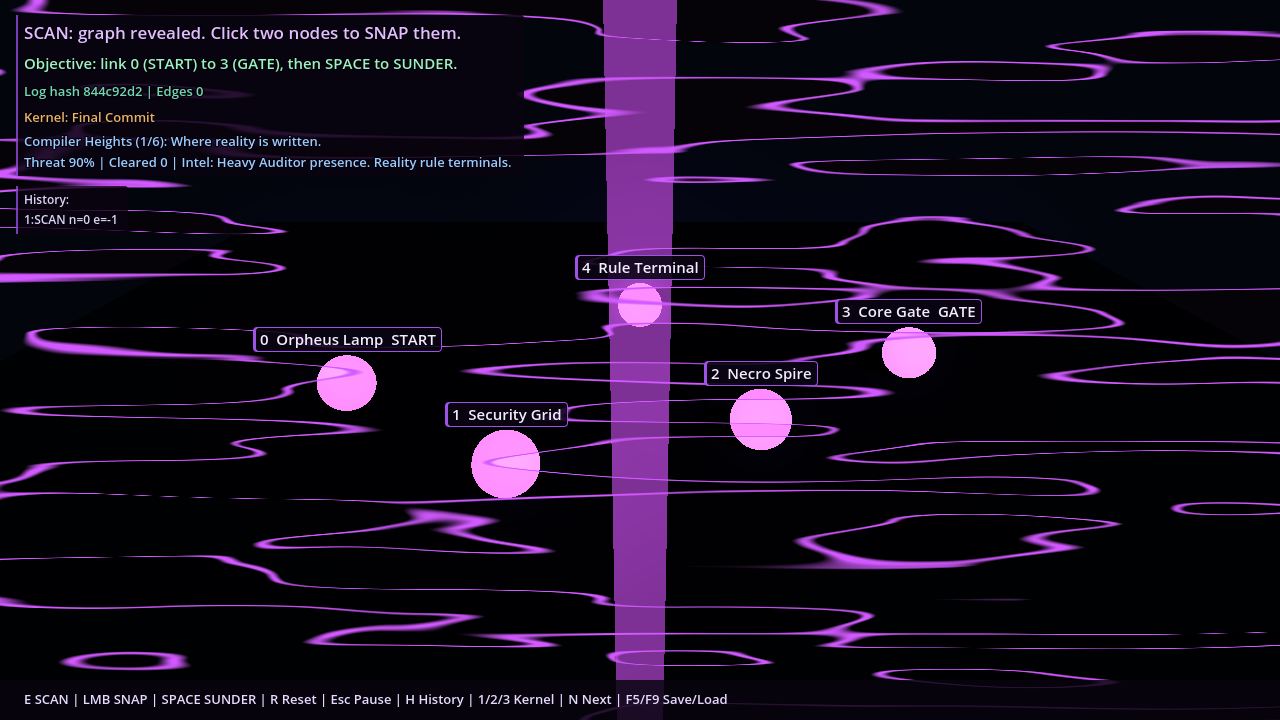
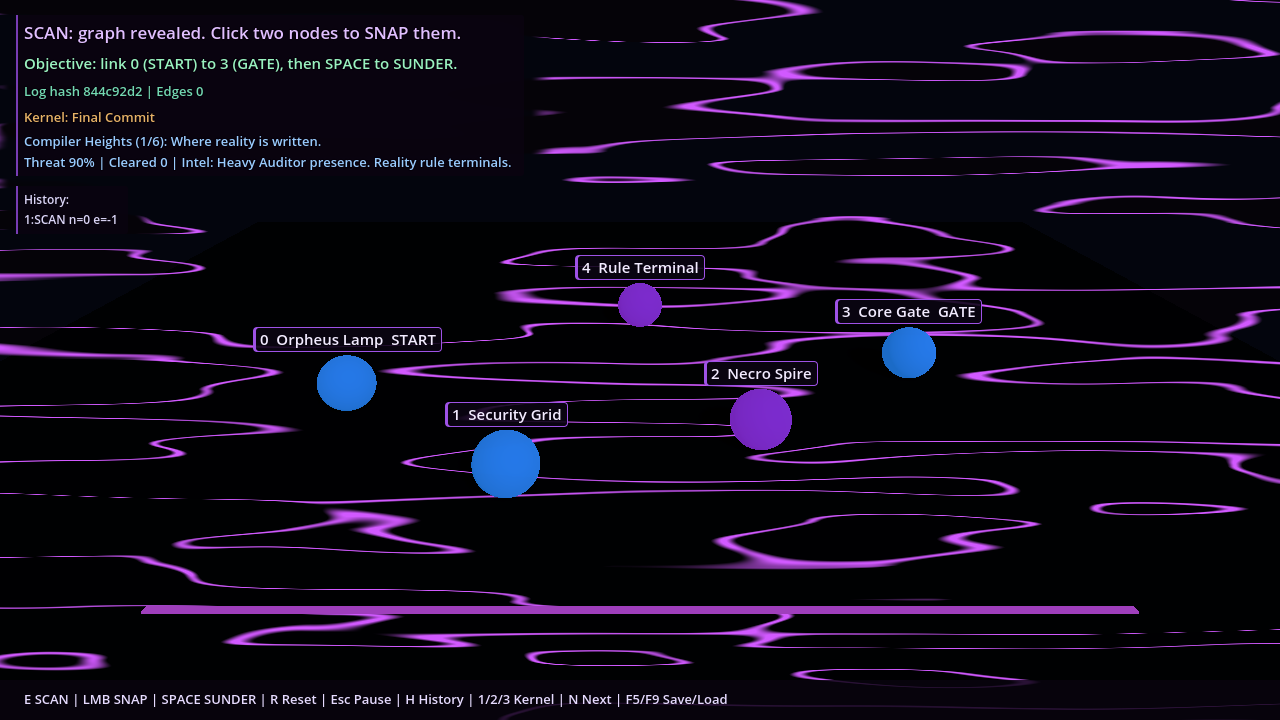
Opaque pause/win panels, streaks off spheres, Resumed status (S1-S3); QA: hand check 6 all six districts
- S1: PAUSED and win panel backing alpha 0.96 -> 1.0; driver asserts both.
- S2: compositor scales its violet streak by 1 - smoothstep(0.1, 0.24, lit
  scene), so streaks draw only over the near-black background, not spheres,
  beams or the floor line. Test-only seam_force uniform; windowed driver
  forces streaks on in districts 1 and 6 and checks every sphere centre
  keeps its colour while the background turns violet (fails with the mask
  disabled).
- S3: Esc resume sets the status to 'Resumed.'; driver expects it.
- Driver 352/352 headless (4 pixel checks skipped), 356/356 GL and Vulkan;
  smoke 28/28; unit 5/5. QA doc: hand check 6, S1-S3, refreshed shots.

diff --git a/docs/QA-COMPLETION.md b/docs/QA-COMPLETION.md
@@ -3,7 +3,7 @@
 **Date:** 2026-10-08 (America/New_York)
 **Branch:** `fix/coldboot-playtest-pass`
 **Scope:** the existing Claim-0 vertical slice (main menu, six districts, SCAN → SNAP → SUNDER, kernels, Auditor lock, Rollback timer, Null Walker, F5/F9 save). No new mechanics.
-**Status:** IN PROGRESS. Every district clears with real input events on the real scenes. Three human mouse-and-keyboard sessions (2026-10-08) found HUD, save/load, readability and kernel-message bugs (H1–H7, P1–P11, Q1–Q7), all fixed or explained below. Q8 (H, F5 and F9 under the PAUSED panel) followed from the driver. The driver now passes 347/347 headless, on Forward+ (Vulkan, software) and on GL compatibility. Hand check 4 (03:45 ET) confirmed the kernel messages and pause gating on screen; its R1–R3 readability findings are fixed and checked by the driver and by screenshots on both renderers. Hand check 5 (~04:12 ET) played district 1 with real mouse and keyboard on the fixed build and confirmed R1–R3 on screen; its one new finding (W1, seam showing through the win panel) is fixed.
+**Status:** IN PROGRESS. Every district clears with real input events on the real scenes. Three human mouse-and-keyboard sessions (2026-10-08) found HUD, save/load, readability and kernel-message bugs (H1–H7, P1–P11, Q1–Q7), all fixed or explained below. Q8 (H, F5 and F9 under the PAUSED panel) followed from the driver. The driver now passes 356/356 windowed on Forward+ (Vulkan, software) and on GL compatibility, and 352/352 headless (the four streak pixel checks need a window and are skipped there). Hand check 4 (03:45 ET) confirmed the kernel messages and pause gating on screen; its R1–R3 readability findings are fixed and checked by the driver and by screenshots on both renderers. Hand check 5 (~04:12 ET) played district 1 with real mouse and keyboard on the fixed build and confirmed R1–R3 on screen; its one new finding (W1, seam showing through the win panel) is fixed. Hand check 6 (~04:30–04:45 ET) cleared all six districts by hand at `1dcb907` with no functional failure; its three polish findings (S1–S3: translucent PAUSED panel, compositor streaks over spheres, no message on resume) are fixed and checked by the driver and by screenshots.
 
 ## How this was run
 
@@ -12,21 +12,21 @@
 # Every run uses its own empty XDG_DATA_HOME, so the F5 save starts clean.
 export XDG_DATA_HOME=$(mktemp -d)
 godot --headless --path godot -s res://tools/smoke_test.gd          # 28/28
-godot --headless --path godot -s res://tools/play_driver.gd         # 337/337
+godot --headless --path godot -s res://tools/play_driver.gd         # 352/352 (4 pixel checks skipped)
 # Windowed under Xvfb (1280x720), with screenshots.
 # Forward+ on Vulkan (Mesa lavapipe, software):
 VK_ICD_FILENAMES=/usr/share/vulkan/icd.d/lvp_icd.json \
 godot --path godot --rendering-method forward_plus --rendering-driver vulkan \
-      --resolution 1280x720 -s res://tools/play_driver.gd -- --shots=/tmp/shots_vk  # 337/337
+      --resolution 1280x720 -s res://tools/play_driver.gd -- --shots=/tmp/shots_vk  # 356/356
 # GL compatibility (Mesa llvmpipe):
 godot --path godot --rendering-method gl_compatibility --rendering-driver opengl3 \
-      --resolution 1280x720 -s res://tools/play_driver.gd -- --shots=/tmp/shots_gl  # 337/337
+      --resolution 1280x720 -s res://tools/play_driver.gd -- --shots=/tmp/shots_gl  # 356/356
 python3 -m unittest discover -s tests                               # 5/5
 ```
 
 The headless run prints `Parameter "m" is null` from the dummy renderer's `mesh_get_surface_count`. It was already there at `fe5faf4` (783 lines on 211 checks) and grows with the number of redraws. Neither windowed run prints it. The only other error in the windowed logs is ALSA failing to open a sound device (the box has none).
 
-`godot/tools/play_driver.gd` is new. It boots `MainMenu`, presses **Enter the Manuscript**, and plays `VerticalSlice` by pushing real key and mouse events into the viewport. Clicks land on each sphere's projected screen position and go through the game's own raycast picking. It covers: click before SCAN, Esc pause and unpause, a wrong path plus SUNDER, a two-hop path through an Auditor lock, N to the next district, F5 mid-room then R then F9, the Rollback district, the Null Walker breaking a path in districts 5 and 6 (and the re-draw), and N after The Sink wrapping to district 1 with all six cleared. Since the hand playtest it also covers: SPACE with no SNAPs, SUNDER dropping a pending selection, the SNAP readout in click order, the Auditor lock message, the Rollback timer running out, R and F9 refreshing the Rollback line, the short hex log hash, each HUD fact shown once, and node tags not overlapping each other or any sphere in all six districts. Since hand playtest 2 it also covers: the log hash after F9, the status after E, H and F9, the Null Walker naming the link it took (and the locked endpoint), the 0 → 5 → 3 reroute in districts 5 and 6, History steps in order per district, the dark HUD backing, the Auditor / Sable capsules clear of spheres, tags and beams, spheres and beams drawn after the seam, no beam passing through another sphere, no tag on a beam, and nothing over the PAUSED panel. Since hand playtest 3 it also covers the kernel keys (see **Kernels** below): keys 1 / 2 / 3, the HUD kernel line, the status naming the SNAP that will lock, the lock landing on that SNAP, a kernel key dropping a pending selection, the message after the Auditor has locked and mid-district, F5 / F9 of the kernel and its log hash, 1 / 2 / 3 and N ignored while paused, R keeping the kernel, district 1 cleared under each kernel, and Force Revert in Dead Repository across F5 → R → F9. For Q8 it also checks, in district 2 with a pending selection and a save that differs from the board, that E, SPACE, 1, 2, 3, N, H, F5, F9, R and a click under the PAUSED panel change nothing (game state, board, HUD lines, status and the save file), that Esc resumes with the same board, and that H, E, a click and F5 work again after it.
+`godot/tools/play_driver.gd` is new. It boots `MainMenu`, presses **Enter the Manuscript**, and plays `VerticalSlice` by pushing real key and mouse events into the viewport. Clicks land on each sphere's projected screen position and go through the game's own raycast picking. It covers: click before SCAN, Esc pause and unpause, a wrong path plus SUNDER, a two-hop path through an Auditor lock, N to the next district, F5 mid-room then R then F9, the Rollback district, the Null Walker breaking a path in districts 5 and 6 (and the re-draw), and N after The Sink wrapping to district 1 with all six cleared. Since the hand playtest it also covers: SPACE with no SNAPs, SUNDER dropping a pending selection, the SNAP readout in click order, the Auditor lock message, the Rollback timer running out, R and F9 refreshing the Rollback line, the short hex log hash, each HUD fact shown once, and node tags not overlapping each other or any sphere in all six districts. Since hand playtest 2 it also covers: the log hash after F9, the status after E, H and F9, the Null Walker naming the link it took (and the locked endpoint), the 0 → 5 → 3 reroute in districts 5 and 6, History steps in order per district, the dark HUD backing, the Auditor / Sable capsules clear of spheres, tags and beams, spheres and beams drawn after the seam, no beam passing through another sphere, no tag on a beam, and nothing over the PAUSED panel. Since hand playtest 3 it also covers the kernel keys (see **Kernels** below): keys 1 / 2 / 3, the HUD kernel line, the status naming the SNAP that will lock, the lock landing on that SNAP, a kernel key dropping a pending selection, the message after the Auditor has locked and mid-district, F5 / F9 of the kernel and its log hash, 1 / 2 / 3 and N ignored while paused, R keeping the kernel, district 1 cleared under each kernel, and Force Revert in Dead Repository across F5 → R → F9. For Q8 it also checks, in district 2 with a pending selection and a save that differs from the board, that E, SPACE, 1, 2, 3, N, H, F5, F9, R and a click under the PAUSED panel change nothing (game state, board, HUD lines, status and the save file), that Esc resumes with the same board, and that H, E, a click and F5 work again after it. For hand check 6 it also checks that the PAUSED and win panel backings are fully opaque (alpha 1.0), that every Esc resume sets the status to `Resumed.`, and that the compositor masks its streaks off lit scene pixels; windowed, in districts 1 and 6 after SCAN, it renders a frame with the streaks forced to full strength everywhere and compares it with a normal frame: every sphere centre keeps its colour and layer hue, while an empty background pixel turns violet.
 
 ## Bugs fixed
 
@@ -154,9 +154,11 @@ Vulkan API 1.4.305 - Forward+ - Using Vulkan Device #0: Unknown - llvmpipe (LLVM
 | Original driver | `fe5faf4` | 211/211 | 211/211 |
 | Extended driver, before the Q-fixes | `fe5faf4` + driver | 308/315 (the Q1, Q5–Q7 bugs) | not run |
 | Extended driver, after the Q-fixes | `2a65f01` | 315/315 | 315/315 |
-| Driver with the Q8 pause-gating checks | this slice | 337/337 | 337/337 |
+| Driver with the Q8 pause-gating checks | `757edf6` | 337/337 | 337/337 |
+| Driver with the R1–R3 / W1 checks | `06b6391` / `1dcb907` | 346/346 (`06b6391`) | 347/347 (`1dcb907`) |
+| Driver with the S1–S3 checks | this slice | 356/356 | 356/356 |
 
-Visual differences on Forward+, compared with GL compatibility at the same frames: the image is brighter and keeps colour (spheres stay pink where GL compatibility clips them to white). The seam is about twice as bright. The capsules are about twice as visible, but still clear of spheres, tags and beams. The board, tags, HUD and panels read the same. This is the renderer's tone mapping and glow, not a regression. Fixes 3 and 5 and P7 / P8 hold on both renderers. See `docs/images/qa/room1_vulkan.png` against `docs/images/qa/room1_start.png`.
+Visual differences on Forward+, compared with GL compatibility at the same frames: the image is brighter and keeps colour (spheres stay pink where GL compatibility clips them to white). The seam is about twice as bright. The capsules are about twice as visible, but still clear of spheres, tags and beams. The board, tags, HUD and panels read the same. This is the renderer's tone mapping and glow, not a regression. Fixes 3 and 5 and P7 / P8 hold on both renderers. See `docs/images/qa/room1_vulkan.png` against `docs/images/qa/room1_start.png`. (That comparison predates R2. Since R2 both renderers keep the violet / cyan sphere hues, and the refreshed screenshots read almost the same on both.)
 
 Not covered: Vulkan on a real GPU driver. Only the software ICD was used.
 
@@ -180,8 +182,9 @@ Not covered: Vulkan on a real GPU driver. Only the software ICD was used.
 | Hand 1 (2026-10-08) | 1–4 | All cleared, 0 missed clicks. Esc, F5 / R / F9 worked. Findings H1–H7. |
 | Hand 2 (2026-10-08) | 1–6 | All six cleared by hand. F5 / R / F9, Esc and H worked. In 5 and 6 the Null Walker broke 0 – 1 (node 1 locked), rerouted via node 5. N after The Sink wrapped to district 1 with `Cleared 6`. Findings P1–P11. |
 | Hand 3 (2026-10-08, ~2:35–2:48 ET) | 1–6 | All six cleared by hand with kernel switches (Final Commit, Force Revert, Keep Drafting). Null Walker reroute via 5 in 5 and 6. F5 in 5, R, F9 restored 5. N after The Sink wrapped to district 1 with `Cleared 6`. Every P-fix confirmed on screen. Findings Q1–Q4 (plus driver findings Q5–Q7). |
+| Hand 6 (2026-10-08, ~04:30–04:45 ET) | 1–6 | All six cleared by hand at `1dcb907` with kernel keys, F5 / R / F9 in districts 2 and 5, pause gating, H, the Rollback timer and the Null Walker reroute. No functional failure. Findings S1–S3 (polish). |
 
-Screenshots: `docs/images/qa/room1_start.png`, `docs/images/qa/room3_ghost_rail_win.png`, `docs/images/qa/room6_win.png`, `docs/images/qa/room1_vulkan.png` (Forward+).
+Screenshots: `docs/images/qa/room1_start.png`, `docs/images/qa/room3_ghost_rail_win.png`, `docs/images/qa/room6_win.png`, `docs/images/qa/room1_vulkan.png` (Forward+). Refreshed after S1–S3 from the GL and Vulkan driver runs (they still showed the white spheres and the seam column from before R1–R3).
 
 ## Hand check 4 (2026-10-08, ~03:45 ET)
 
@@ -218,9 +221,33 @@ Real mouse and keyboard on the GL compatibility build at 1280×720, fresh save d
 | Clear | PASS. `SUNDER: gate open.`, `Objective complete.`, Cleared 1, History 1–4 in order, win panel with the Sable line. |
 | W1 (new) | The win panel used the default translucent grey, and the front seam line showed between its text lines. Fixed: the win panel uses the opaque PAUSED backing. Driver asserts it; GL screenshots of the district 1 and 6 win panels show it clean. |
 
+## Hand check 6 (2026-10-08, ~04:30–04:45 ET)
+
+Real mouse and keyboard on the GL compatibility build at `1dcb907`, 1280×720, fresh save directory. All six districts cleared by hand. No functional failure, crash, freeze or soft-lock.
+
+| Districts | Result |
+|-----------|--------|
+| 1–3 | District 1: kernel keys 2 then 1 before the first SNAP, each status naming the promised SNAP #2; Final Commit locked node 1 on 1 → 3 (SNAP #2, as promised); History in order; H hid and showed it; win panel opaque (the floor line passes behind it, by design); N to district 2. District 2: Force Revert, SNAP 0 → 4, F5 (Log hash `1d49e8ee`), R to district 1, F9 restored district 2 with the same hash `1d49e8ee` and the beam; paused with node 4 selected: N, SPACE, H and a click were ignored; Esc resumed the same board; 4 → 3, clear. District 3: Keep Drafting, 0 → 1 → 2 → 3, clear. |
+| 4–6 | District 4: key 2 before SCAN kept Force Revert through SCAN; ROLLBACK started at 47s and counted down; cleared at 16s; the readout was gone on clear. District 5: the Null Walker removed 0 – 1 on 1 → 3; SPACE → `Path incomplete. Link 0 to 3, then SUNDER.`; 0 → 5; F5 (`a9400a3c`), R, F9 restored hash `a9400a3c` and both beams; 5 → 3 (node 1 locked); History 1–6 in order; pause ignored SPACE and N; clear, `Cleared 5`. District 6: Null Walker on 1 → 3; the Auditor locked node 1 on 0 → 5; 5 → 3; clear, `Cleared 6`; N wrapped to Compiler Heights with `Cleared 6`. |
+
+Two tester-reported "failures" were checked and are not bugs:
+
+- **A kernel reverting on SCAN in district 3.** A scripted replay of the exact key and click sequence reproduced every hand hash (`1d49e8ee`, `fefcc33c`) and showed the kernel holds through SCAN. The tester's first key 3 did not reach the game before E.
+- **`SNAP 3 → 2`.** The replay records 2 → 3; the readout follows click order (P-fix), and the tester clicked 3 first after a missed click.
+
+Two missed clicks in district 2 worked on retry.
+
+### Polish fixes from hand check 6
+
+| # | Found | Cause | Fix and check |
+|---|-------|-------|---------------|
+| S1 | The PAUSED panel was slightly translucent: a beam behind it showed faintly through its dark interior. | The shared PAUSED / win panel `StyleBoxFlat` had a background alpha of 0.96. | Alpha 1.0 for both panels (`_style_pause_panel`). Driver: both panel styleboxes have background alpha 1.0. GL and Vulkan screenshots of PAUSED (`01d_room1_paused`, `02b_room2_paused_gated`) and the win panels show no beam through them. |
+| S2 | The compositor's thin violet background streaks were painted over the spheres; in The Sink a streak crossed sphere 6 `Unraveled Mind` and could read as a beam through it. | The compositor blended its streak over the whole composited 3D image, spheres and beams included (tags sit on a layer above it and were never affected). | The shader scales the streak by `1 - smoothstep(scene_mask_low, scene_mask_high, lit)`, where `lit` is the brightest channel of the composited scene pixel (0.1 → 0.24). The empty background is near black (< 0.08) and keeps the full streak; spheres, beams and the floor line are far brighter and get none. Driver: the shader has the mask; windowed, in districts 1 and 6 after SCAN, a frame with the streak forced on everywhere (`seam_force`, a test-only uniform, 0 in play) leaves every sphere centre's colour and hue unchanged while an empty background pixel turns violet. With the mask disabled the sphere check fails. Screenshots of district 6 after SCAN show sphere 6 and every other sphere clear. |
+| S3 | After Esc resumed from pause the status kept the old text, so nothing said the game had resumed. | The pause toggle only changed the panel, tags and tree pause. | On resume the status reads `Resumed.` (pausing is unchanged). Driver: every Esc resume expects `Resumed.`; the pause-gating "same board after resume" check now compares everything except the status, which it checks separately. |
+
 ## Still open
 
-1. **Full hand regression on the final build.** Hand check 5 covered district 1 only. A last real-input pass through all six districts (F5/F9, R, Esc, H, kernels, Null Walker) on this build is still needed before `COMPLETE — PLAYTEST VERIFIED`.
+1. **Short real-input look at S1–S3.** The full six-district hand regression is done (hand check 6, all six cleared by hand, no functional failure). Only a short real-input look at S1–S3 on the fixed build (PAUSED panel, district 6 after SCAN, `Resumed.` after Esc) remains before `COMPLETE — PLAYTEST VERIFIED`.
 2. **Puzzle depth (design call, not changed).** Any two nodes can be SNAPped, and the Auditor never locks 0 or 3, so a direct 0→3 SNAP clears every district. Constraining SNAPs would be new design.
 3. **R resets the whole run** to district 1 (by design in `reset_demo`). There is no "restart this district".
 4. **Auditor always locks node 1 on the 1 → 3 SNAP** (by design: it is the highest-scoring target there). With the Null Walker in 5 and 6, that forces the reroute via node 5. P3 now says so on screen. Q3 explains when it lands on a later SNAP.
